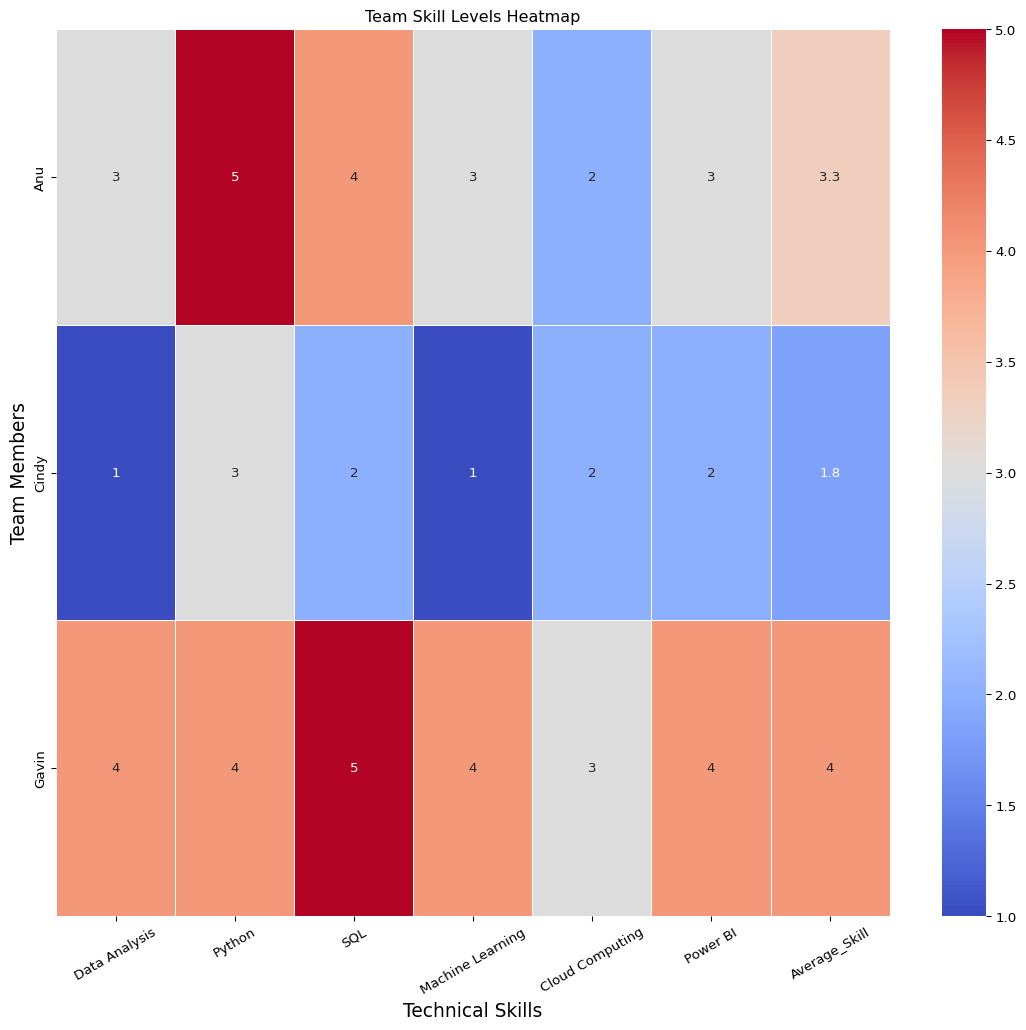
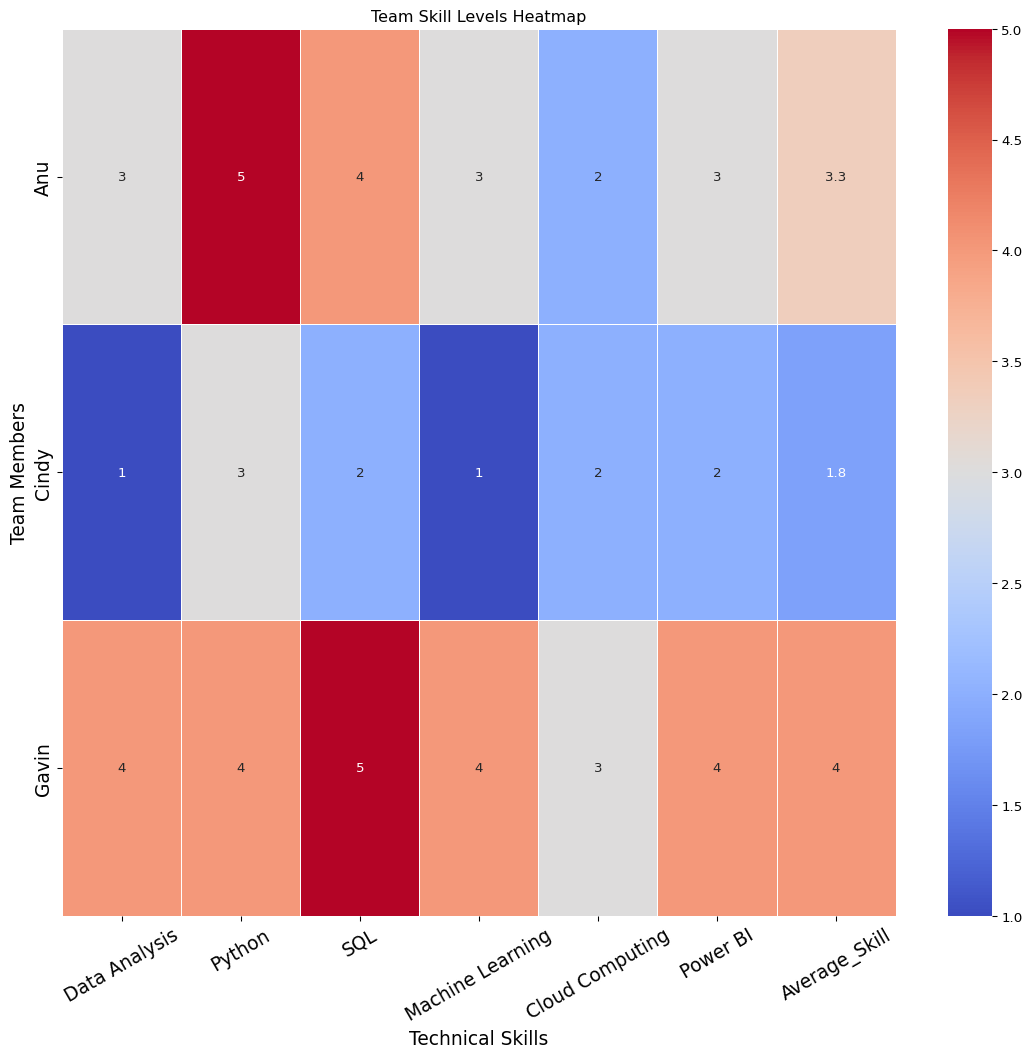
updated skill gap analysis

diff --git a/docs/skill_gap_analysis.html b/docs/skill_gap_analysis.html
@@ -215,7 +215,7 @@ pre > code.sourceCode > span > a:first-child::before { text-decoration: underlin
 <section id="team-dataframe" class="level1" data-number="1">
 <h1 data-number="1"><span class="header-section-number">1</span> Team Dataframe</h1>
 <p>Our team conducted an overview of our current technical skills when it comes to Business Analytics and our skill levels. The goal was to understand where the group’s strengths and weaknesses were, and understand how the data that was collected could relate to the data that was observed in the research conducted. This was used to identify strengths and weaknesses for the group while also identifying potential gaps within the group.</p>
-<div id="3ff9dc0f" class="cell" data-execution_count="1">
+<div id="d7c7647a" class="cell" data-execution_count="1">
 <details class="code-fold">
 <summary>Code</summary>
 <div class="sourceCode cell-code" id="cb1"><pre class="sourceCode python code-with-copy"><code class="sourceCode python"><span id="cb1-1"><a href="#cb1-1" aria-hidden="true" tabindex="-1"></a><span class="im">import</span> pandas <span class="im">as</span> pd</span>
@@ -249,30 +249,30 @@ pre > code.sourceCode > span > a:first-child::before { text-decoration: underlin
 <span id="cb1-29"><a href="#cb1-29" aria-hidden="true" tabindex="-1"></a></span>
 <span id="cb1-30"><a href="#cb1-30" aria-hidden="true" tabindex="-1"></a>df_styled</span></code><button title="Copy to Clipboard" class="code-copy-button"><i class="bi"></i></button></pre></div>
 </details>
-<div class="cell-output cell-output-display" data-execution_count="5">
+<div class="cell-output cell-output-display" data-execution_count="9">
 <div>
 <style type="text/css">
-#T_5f7b1 th {
+#T_4a859 th {
   border: 1px solid black;
   text-align: center;
 }
-#T_5f7b1  td {
+#T_4a859  td {
   border: 1px solid black;
   text-align: center;
 }
 </style>
 
-<table id="T_5f7b1" data-quarto-postprocess="true" class="table table-sm table-striped small">
+<table id="T_4a859" data-quarto-postprocess="true" class="table table-sm table-striped small">
 <thead>
 <tr class="header">
 <th class="blank level0" data-quarto-table-cell-role="th">&nbsp;</th>
-<th id="T_5f7b1_level0_col0" class="col_heading level0 col0" data-quarto-table-cell-role="th">Data Analysis</th>
-<th id="T_5f7b1_level0_col1" class="col_heading level0 col1" data-quarto-table-cell-role="th">Python</th>
-<th id="T_5f7b1_level0_col2" class="col_heading level0 col2" data-quarto-table-cell-role="th">SQL</th>
-<th id="T_5f7b1_level0_col3" class="col_heading level0 col3" data-quarto-table-cell-role="th">Machine Learning</th>
-<th id="T_5f7b1_level0_col4" class="col_heading level0 col4" data-quarto-table-cell-role="th">Cloud Computing</th>
-<th id="T_5f7b1_level0_col5" class="col_heading level0 col5" data-quarto-table-cell-role="th">Power BI</th>
-<th id="T_5f7b1_level0_col6" class="col_heading level0 col6" data-quarto-table-cell-role="th">Average_Skill</th>
+<th id="T_4a859_level0_col0" class="col_heading level0 col0" data-quarto-table-cell-role="th">Data Analysis</th>
+<th id="T_4a859_level0_col1" class="col_heading level0 col1" data-quarto-table-cell-role="th">Python</th>
+<th id="T_4a859_level0_col2" class="col_heading level0 col2" data-quarto-table-cell-role="th">SQL</th>
+<th id="T_4a859_level0_col3" class="col_heading level0 col3" data-quarto-table-cell-role="th">Machine Learning</th>
+<th id="T_4a859_level0_col4" class="col_heading level0 col4" data-quarto-table-cell-role="th">Cloud Computing</th>
+<th id="T_4a859_level0_col5" class="col_heading level0 col5" data-quarto-table-cell-role="th">Power BI</th>
+<th id="T_4a859_level0_col6" class="col_heading level0 col6" data-quarto-table-cell-role="th">Average_Skill</th>
 </tr>
 <tr class="odd">
 <th class="index_name level0" data-quarto-table-cell-role="th">Name</th>
@@ -287,41 +287,41 @@ pre > code.sourceCode > span > a:first-child::before { text-decoration: underlin
 </thead>
 <tbody>
 <tr class="odd">
-<td id="T_5f7b1_level0_row0" class="row_heading level0 row0" data-quarto-table-cell-role="th">Anu</td>
-<td id="T_5f7b1_row0_col0" class="data row0 col0">3</td>
-<td id="T_5f7b1_row0_col1" class="data row0 col1">5</td>
-<td id="T_5f7b1_row0_col2" class="data row0 col2">4</td>
-<td id="T_5f7b1_row0_col3" class="data row0 col3">3</td>
-<td id="T_5f7b1_row0_col4" class="data row0 col4">2</td>
-<td id="T_5f7b1_row0_col5" class="data row0 col5">3</td>
-<td id="T_5f7b1_row0_col6" class="data row0 col6">3.333333</td>
+<td id="T_4a859_level0_row0" class="row_heading level0 row0" data-quarto-table-cell-role="th">Anu</td>
+<td id="T_4a859_row0_col0" class="data row0 col0">3</td>
+<td id="T_4a859_row0_col1" class="data row0 col1">5</td>
+<td id="T_4a859_row0_col2" class="data row0 col2">4</td>
+<td id="T_4a859_row0_col3" class="data row0 col3">3</td>
+<td id="T_4a859_row0_col4" class="data row0 col4">2</td>
+<td id="T_4a859_row0_col5" class="data row0 col5">3</td>
+<td id="T_4a859_row0_col6" class="data row0 col6">3.333333</td>
 </tr>
 <tr class="even">
-<td id="T_5f7b1_level0_row1" class="row_heading level0 row1" data-quarto-table-cell-role="th">Cindy</td>
-<td id="T_5f7b1_row1_col0" class="data row1 col0">1</td>
-<td id="T_5f7b1_row1_col1" class="data row1 col1">3</td>
-<td id="T_5f7b1_row1_col2" class="data row1 col2">2</td>
-<td id="T_5f7b1_row1_col3" class="data row1 col3">1</td>
-<td id="T_5f7b1_row1_col4" class="data row1 col4">2</td>
-<td id="T_5f7b1_row1_col5" class="data row1 col5">2</td>
-<td id="T_5f7b1_row1_col6" class="data row1 col6">1.833333</td>
+<td id="T_4a859_level0_row1" class="row_heading level0 row1" data-quarto-table-cell-role="th">Cindy</td>
+<td id="T_4a859_row1_col0" class="data row1 col0">1</td>
+<td id="T_4a859_row1_col1" class="data row1 col1">3</td>
+<td id="T_4a859_row1_col2" class="data row1 col2">2</td>
+<td id="T_4a859_row1_col3" class="data row1 col3">1</td>
+<td id="T_4a859_row1_col4" class="data row1 col4">2</td>
+<td id="T_4a859_row1_col5" class="data row1 col5">2</td>
+<td id="T_4a859_row1_col6" class="data row1 col6">1.833333</td>
 </tr>
 <tr class="odd">
-<td id="T_5f7b1_level0_row2" class="row_heading level0 row2" data-quarto-table-cell-role="th">Gavin</td>
-<td id="T_5f7b1_row2_col0" class="data row2 col0">4</td>
-<td id="T_5f7b1_row2_col1" class="data row2 col1">4</td>
-<td id="T_5f7b1_row2_col2" class="data row2 col2">5</td>
-<td id="T_5f7b1_row2_col3" class="data row2 col3">4</td>
-<td id="T_5f7b1_row2_col4" class="data row2 col4">3</td>
-<td id="T_5f7b1_row2_col5" class="data row2 col5">4</td>
-<td id="T_5f7b1_row2_col6" class="data row2 col6">4.000000</td>
+<td id="T_4a859_level0_row2" class="row_heading level0 row2" data-quarto-table-cell-role="th">Gavin</td>
+<td id="T_4a859_row2_col0" class="data row2 col0">4</td>
+<td id="T_4a859_row2_col1" class="data row2 col1">4</td>
+<td id="T_4a859_row2_col2" class="data row2 col2">5</td>
+<td id="T_4a859_row2_col3" class="data row2 col3">4</td>
+<td id="T_4a859_row2_col4" class="data row2 col4">3</td>
+<td id="T_4a859_row2_col5" class="data row2 col5">4</td>
+<td id="T_4a859_row2_col6" class="data row2 col6">4.000000</td>
 </tr>
 </tbody>
 </table>
 </div>
 </div>
 </div>
-<div id="bc0e9a53" class="cell" data-execution_count="2">
+<div id="8d5b64d4" class="cell" data-execution_count="2">
 <details class="code-fold">
 <summary>Code</summary>
 <div class="sourceCode cell-code" id="cb2"><pre class="sourceCode python code-with-copy"><code class="sourceCode python"><span id="cb2-1"><a href="#cb2-1" aria-hidden="true" tabindex="-1"></a><span class="im">import</span> seaborn <span class="im">as</span> sns</span>
@@ -330,20 +330,22 @@ pre > code.sourceCode > span > a:first-child::before { text-decoration: underlin
 <span id="cb2-4"><a href="#cb2-4" aria-hidden="true" tabindex="-1"></a>plt.figure(figsize<span class="op">=</span>(<span class="dv">14</span>, <span class="dv">12</span>))</span>
 <span id="cb2-5"><a href="#cb2-5" aria-hidden="true" tabindex="-1"></a>sns.heatmap(df_skills, annot<span class="op">=</span><span class="va">True</span>, cmap<span class="op">=</span><span class="st">"coolwarm"</span>, linewidths<span class="op">=</span><span class="fl">0.5</span>)</span>
 <span id="cb2-6"><a href="#cb2-6" aria-hidden="true" tabindex="-1"></a>plt.title(<span class="st">"Team Skill Levels Heatmap"</span>)</span>
-<span id="cb2-7"><a href="#cb2-7" aria-hidden="true" tabindex="-1"></a>plt.xlabel(<span class="st">"Technical Skills"</span>, fontsize<span class="op">=</span><span class="dv">14</span>, fontname<span class="op">=</span><span class="st">"Calibri"</span>)</span>
-<span id="cb2-8"><a href="#cb2-8" aria-hidden="true" tabindex="-1"></a>plt.ylabel(<span class="st">"Team Members"</span>, fontsize<span class="op">=</span><span class="dv">14</span>, fontname<span class="op">=</span><span class="st">"Calibri"</span>)</span>
-<span id="cb2-9"><a href="#cb2-9" aria-hidden="true" tabindex="-1"></a>plt.xticks(rotation<span class="op">=</span><span class="dv">30</span>)  </span>
-<span id="cb2-10"><a href="#cb2-10" aria-hidden="true" tabindex="-1"></a>plt.show()</span></code><button title="Copy to Clipboard" class="code-copy-button"><i class="bi"></i></button></pre></div>
+<span id="cb2-7"><a href="#cb2-7" aria-hidden="true" tabindex="-1"></a>plt.xlabel(<span class="st">"Technical Skills"</span>, fontsize<span class="op">=</span><span class="dv">14</span>, fontname<span class="op">=</span><span class="st">"Arial"</span>)</span>
+<span id="cb2-8"><a href="#cb2-8" aria-hidden="true" tabindex="-1"></a>plt.ylabel(<span class="st">"Team Members"</span>, fontsize<span class="op">=</span><span class="dv">14</span>, fontname<span class="op">=</span><span class="st">"Arial"</span>)</span>
+<span id="cb2-9"><a href="#cb2-9" aria-hidden="true" tabindex="-1"></a>plt.xticks(rotation<span class="op">=</span><span class="dv">30</span>, fontsize<span class="op">=</span><span class="dv">14</span>)  </span>
+<span id="cb2-10"><a href="#cb2-10" aria-hidden="true" tabindex="-1"></a>plt.yticks(fontsize<span class="op">=</span><span class="dv">14</span>)</span>
+<span id="cb2-11"><a href="#cb2-11" aria-hidden="true" tabindex="-1"></a>annot_kws<span class="op">=</span>{<span class="st">"fontsize"</span>:<span class="dv">12</span>}</span>
+<span id="cb2-12"><a href="#cb2-12" aria-hidden="true" tabindex="-1"></a>plt.show()</span></code><button title="Copy to Clipboard" class="code-copy-button"><i class="bi"></i></button></pre></div>
 </details>
 <div class="cell-output cell-output-stderr">
-<pre><code>findfont: Font family 'Calibri' not found.
-findfont: Font family 'Calibri' not found.
-findfont: Font family 'Calibri' not found.
-findfont: Font family 'Calibri' not found.
-findfont: Font family 'Calibri' not found.
-findfont: Font family 'Calibri' not found.
-findfont: Font family 'Calibri' not found.
-findfont: Font family 'Calibri' not found.</code></pre>
+<pre><code>findfont: Font family 'Arial' not found.
+findfont: Font family 'Arial' not found.
+findfont: Font family 'Arial' not found.
+findfont: Font family 'Arial' not found.
+findfont: Font family 'Arial' not found.
+findfont: Font family 'Arial' not found.
+findfont: Font family 'Arial' not found.
+findfont: Font family 'Arial' not found.</code></pre>
 </div>
 <div class="cell-output cell-output-display">
 <div>
